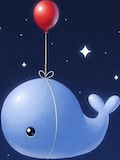
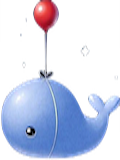
Functional

diff --git a/decode/05_oop-game-project/tomFireTruckery/js/kittens.js b/decode/05_oop-game-project/tomFireTruckery/js/kittens.js
@@ -1,13 +1,14 @@
 // This section contains some game constants. It is not super interesting
-var GAME_WIDTH = 1200; //Original 375
-var GAME_HEIGHT = 800; //Original 500
+var GAME_WIDTH = 1200; 
+var GAME_HEIGHT = 780; 
 
-var ENEMY_WIDTH = 75;
-var ENEMY_HEIGHT = 156; //156
-var MAX_ENEMIES = 3;
 
-var PLAYER_WIDTH = 75;
-var PLAYER_HEIGHT = 54;
+var ENEMY_WIDTH = 123;
+var ENEMY_HEIGHT = 85;
+var MAX_ENEMIES = 2;
+
+var PLAYER_WIDTH = 120;
+var PLAYER_HEIGHT = 160;
 
 // These two constants keep us from using "magic numbers" in our code
 var LEFT_ARROW_CODE = 37;
@@ -23,7 +24,7 @@ var MOVE_DOWN = 'down';
 
 // Preload game images
 var images = {};
-['enemy.png', 'fishies.png', 'player.png'].forEach(imgName => {
+['spookyFish.png', 'OB.png', 'whaleLeft.png', 'whaleRight.png'].forEach(imgName => {
     var img = document.createElement('img');
     img.src = 'images/' + imgName;
     images[imgName] = img;
@@ -38,11 +39,11 @@ class Enemy {
     constructor(xPos) {
         this.x = xPos;
         this.y = -ENEMY_HEIGHT;
-        this.sprite = images['enemy.png'];
+        this.sprite = images['spookyFish.png'];
         console.log("Class enemy", this.y)
         
         // Each enemy should have a different speed
-        this.speed = Math.random() / 2 + 0.25 - .3;
+        this.speed = Math.random() / 2 + 0.20;
     }
     
     update(timeDiff) {
@@ -56,20 +57,24 @@ class Enemy {
 
 class Player {
     constructor() {
-        this.x = 2 * PLAYER_WIDTH;
-        this.y = GAME_HEIGHT - PLAYER_HEIGHT - 10; //Original PLAYER_HEIGHT - 10
-        this.sprite = images['player.png'];
+        this.x = GAME_WIDTH / 2 - PLAYER_WIDTH
+        this.y = GAME_HEIGHT - PLAYER_HEIGHT - 50; //Original PLAYER_HEIGHT - 10
+        this.sprite = images['whaleRight.png'];
     }
     
     // This method is called by the game engine when left/right arrows are pressed
     move(direction) {
         if (direction === MOVE_LEFT && this.x > 0) {
+            this.sprite = images['whaleLeft.png'];
             this.x = this.x - PLAYER_WIDTH;
+
         }
         else if (direction === MOVE_RIGHT && this.x < GAME_WIDTH - PLAYER_WIDTH) {
+            this.sprite = images['whaleRight.png'];
             this.x = this.x + PLAYER_WIDTH;
+        
         }
-        else if(direction === MOVE_DOWN && this.y < 436) {
+        else if(direction === MOVE_DOWN && this.y < 500) {
             this.y = this.y + PLAYER_HEIGHT;
         }
         else if(direction === MOVE_UP && this.y > 5) {
@@ -184,7 +189,7 @@ class Engine {
         this.enemies.forEach(enemy => enemy.update(timeDiff));
         
         // Draw everything!
-        this.ctx.drawImage(images['fishies.png'], 0, 0); // draw the star bg
+        this.ctx.drawImage(images['OB.png'], 0, 0); // draw the star bg
         this.enemies.forEach(enemy => enemy.render(this.ctx)); // draw the enemies
         this.player.render(this.ctx); // draw the player
         
@@ -202,7 +207,7 @@ class Engine {
             // If they are dead, then it's game over!
             this.ctx.font = 'bold 30px Impact';
             this.ctx.fillStyle = '#53990d';
-            this.ctx.fillText(this.score + ' GAME OVER', 5, 30);
+            this.ctx.fillText(this.score + ' ONWARDS! TO GREATNESS!', 5, 30);
         }
         else {
             // If player is not dead, then draw the score
@@ -222,8 +227,8 @@ class Engine {
                 if(
                     element.x + ENEMY_WIDTH > this.player.x  &&
                     element.x < this.player.x + PLAYER_WIDTH &&
-                    element.y + ENEMY_HEIGHT - 100 > this.player.y  &&
-                    element.y - ENEMY_HEIGHT + 100  < this.player.y + PLAYER_HEIGHT
+                    element.y + ENEMY_HEIGHT > this.player.y   &&
+                    element.y - ENEMY_HEIGHT < this.player.y + PLAYER_HEIGHT / 2
                 )
                 return playerDead = true  
          })  
